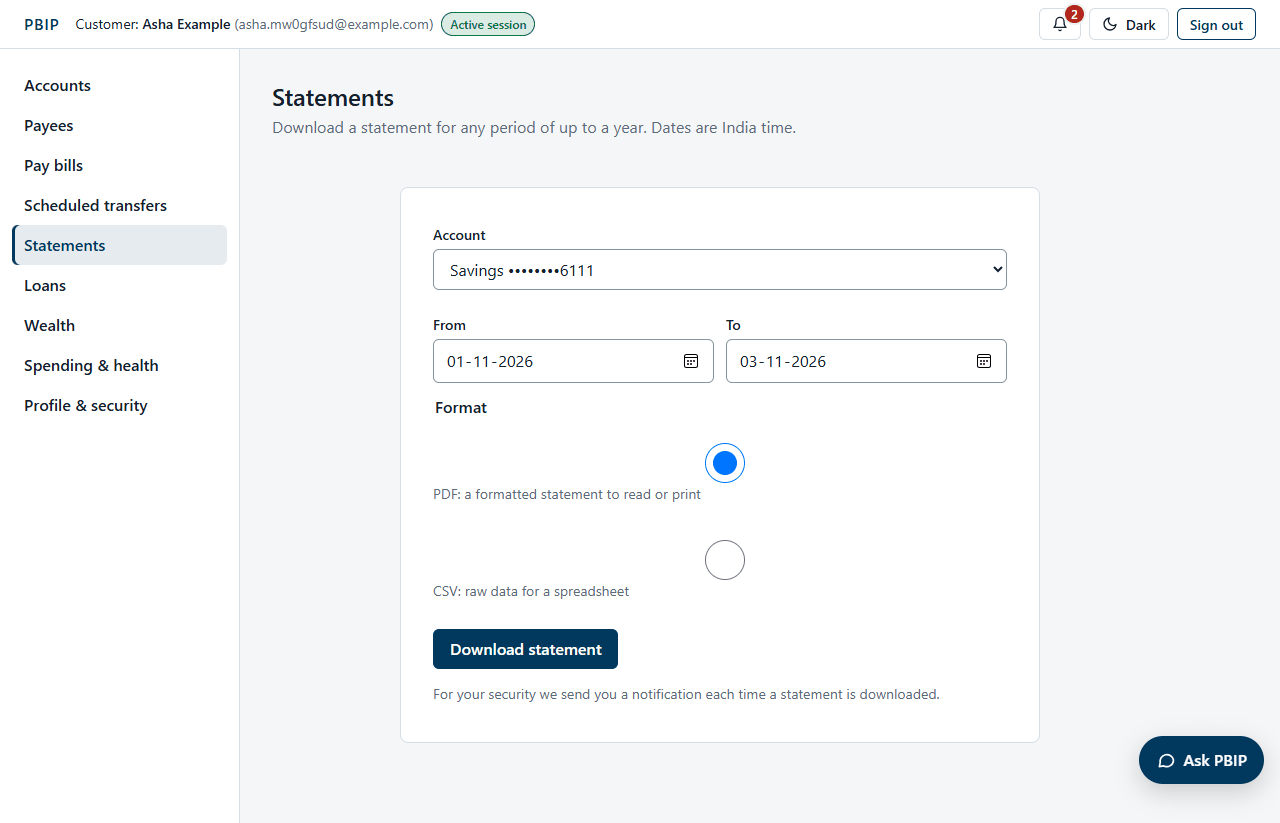
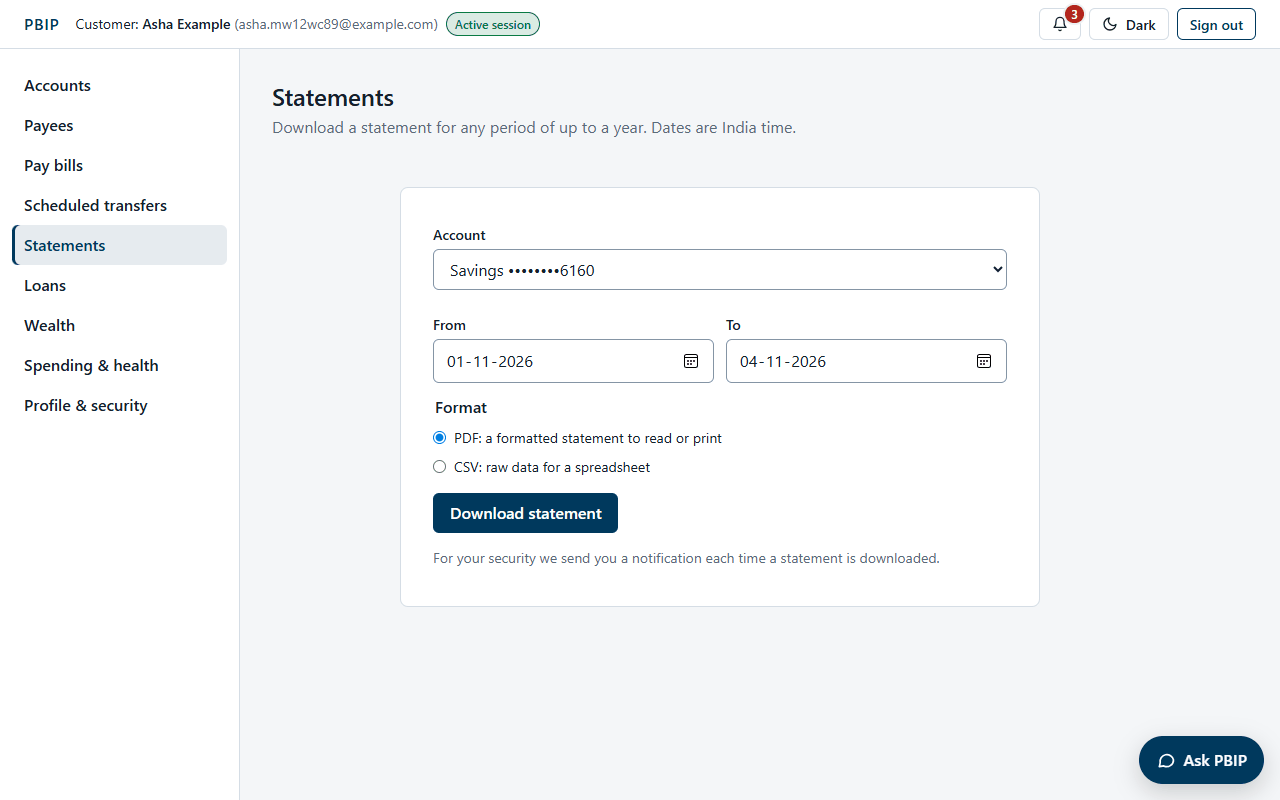
docs(manual): refresh screenshots and text for the screens changed since #374
Re-shot ten screenshots with the PR #374 capture method (Playwright, Edge,
1280 px, light theme, 256-colour PNG) on the current main: radio choices and
the compliance table title (#386), the fraud demo lab's Carol default and
session reuse (#388), recurring-only income (#404: loans, health score,
recommendations, RM details) and the RM list ordered by product match (#391).
The text now explains regular income, the empty recommendation state, the
lab's defaults, the RM list order and the third demo customer.

diff --git a/docs/user-manual/customer-guide.md b/docs/user-manual/customer-guide.md
@@ -78,8 +78,10 @@ from your app (or one of your recovery codes) and choose **Verify**.
 further failure doubles the wait, up to one hour. Wait, then try again. A staff administrator can also
 clear a lockout.
 
-> Demo logins for a local copy of PBIP (`alice@demo.pbip`, `bob@demo.pbip`) and where their password comes
-> from are listed in the [README](../../README.md). The password is never printed in this manual.
+> Demo logins for a local copy of PBIP (`alice@demo.pbip`, `bob@demo.pbip`, `carol@demo.pbip`) and where
+> their password comes from are listed in the [README](../../README.md). The password is never printed in
+> this manual. Alice has an authenticator, so she is asked for a code after her password
+> (`scripts/totp.py` prints it); Bob and Carol are not.
 
 ## 2. Turn on two-step sign-in (MFA)
 
@@ -361,6 +363,11 @@ Each part has a label such as Optimal, Adequate, Moderate, Low, Volatile, Burden
 **Actionable Financial Insights** lists what to improve. A new customer sees "Not enough data yet" for
 parts that need at least one or two closed months, as in the screenshot.
 
+**Income** means regular credits only: money from the same payer, for the same purpose, in at least 2 of
+the last 3 months (a salary, for example). A one-off credit such as an opening deposit does not count. Until
+a regular credit has arrived twice, Savings and Debt show "no income observed" and score 0, as in the
+screenshot, and the insights say "No regular income recorded yet".
+
 **Balance Forecast** (marked **Predicted, not exact**) draws your balance for the last 30 days and a
 prediction for the next 30, with shaded 80% and 95% ranges and markers for scheduled payments and loan
 EMIs. It shows the projected month-end balance and the payments still due this month. If your balance may
@@ -387,8 +394,10 @@ repayments. Open **Loans**.
    interest** and **Total payable**.
 3. The **Eligibility pre-check** shows **Eligible** or **Not eligible**, the maximum you could borrow over
    that tenure, your interest rate and the reasons. All your repayments including the new EMI must stay
-   within 50% of your income, worked out from your own account history. A sign-in lockout in the last 90
-   days pauses loan checks.
+   within 50% of your income, worked out from your own account history. Only regular income counts (see
+   [section 10](#10-spending-financial-health-and-balance-forecast)); without it the pre-check says
+   **Not eligible**, "We could not find regular income in your account history.", as in the screenshot of a
+   new customer. A sign-in lockout in the last 90 days pauses loan checks.
 
 **Borrow:**
 
@@ -467,6 +476,11 @@ your balance or spending pattern. The button takes you to the right place:
 | Credit line | **See our loans** | **Loans** |
 | Fixed deposit | **Book a fixed deposit** | **Wealth**, with the booking box open |
 | Anything else (for example insurance) | none | "You cannot apply for this in PBIP yet." |
+
+Most products need a regular income (see
+[section 10](#10-spending-financial-health-and-balance-forecast)) or a few months of history, so a new
+customer whose only credit is the opening deposit sees "No product recommendations for you right now.", as
+in the screenshot.
 
 Recommendations use your age band only if you gave consent (see [Profile and security](#17-profile-and-security)).
 

diff --git a/docs/user-manual/staff-guide.md b/docs/user-manual/staff-guide.md
@@ -189,8 +189,11 @@ off.
 The lab really moves money as a demo customer (through the normal customer API), so the alerts it creates
 appear in the queue like any other.
 
-1. Open **Fraud demo lab**. Enter the demo **Customer email** and **Customer password** (the seeded demo
-   password, see the [README](../../README.md)). Customers with an authenticator are refused.
+1. Open **Fraud demo lab**. **Customer email** starts as `carol@demo.pbip` and **Sender email (F6)** as
+   `bob@demo.pbip`, the seeded customers without an authenticator. Enter the **Customer password** (the
+   seeded demo password, see the [README](../../README.md)). Customers with an authenticator, such as
+   Alice, are refused. Each customer signs in once; later runs reuse that session while the page stays
+   open, so a series of scenarios does not use up the sign-in rate limit.
 2. Choose **Run scenario** on a card:
 
    | Scenario | What it does | Rules it should trigger |
@@ -217,9 +220,14 @@ everyone.
 
 ![Customer insights](images/60-rm-insights.png)
 
-1. Filter by **Segment**, **Churn risk** (any, medium or high, high only) and **Loan propensity**.
-2. The list is sorted by churn risk, highest first, 20 per page. Each row shows the segment, balance,
-   churn risk (Low, Medium, High and a 0-100 score), last activity and loan propensity.
+1. Choose the **Order**: **Best product match first** (the default for a relationship manager) or
+   **Highest churn risk first** (the default for an administrator). Filter by **Segment**, **Churn risk**
+   (any, medium or high, high only) and **Loan propensity**. The order and filters apply to all your
+   customers before paging, 20 per page.
+2. Each row shows the segment, balance, **Product match (rule-based)** (the best product's 0-100 score, its
+   name and first reason, or "No eligible product"), churn risk (Low, Medium, High and a 0-100 score), last
+   activity and loan propensity. The product match is a rule-based score, not a trained model or a
+   probability.
 3. Choose **Open** for the customer's details.
 
 ![Customer details](images/61-rm-customer-flyout.png)

diff --git a/docs/user-manual/README.md b/docs/user-manual/README.md
@@ -22,9 +22,11 @@ Then [start the services](../SETUP_GUIDE.md#5-starting-services--local-developme
 apply migrations, seed the demo data, and start the API, worker and web app. Open
 <http://localhost:5173> (development) or <https://localhost:8443> (full Docker stack).
 
-**Demo users.** The seed creates two customers (`alice@demo.pbip`, `bob@demo.pbip`) and four staff users
-(`analyst@demo.pbip`, `compliance@demo.pbip`, `admin@demo.pbip`, `rm@demo.pbip`). Where their password
-comes from, and how to print a staff authenticator code (`scripts/totp.py`), is explained in the
+**Demo users.** The seed creates three customers (`alice@demo.pbip`, `bob@demo.pbip`, `carol@demo.pbip`)
+and four staff users (`analyst@demo.pbip`, `compliance@demo.pbip`, `admin@demo.pbip`, `rm@demo.pbip`).
+Alice has an authenticator (for the step-up demo); Carol is the fraud demo lab's customer and has none.
+Where their password comes from, and how to print a staff or Alice's authenticator code
+(`scripts/totp.py`), is explained in the
 [README](../../README.md#1-run-it). This manual never prints a password. You can also register your
 own customer from the sign-in page.
 
@@ -71,7 +73,8 @@ customers at `example.com`. Keep in mind:
 - **Test data only.** Names such as "Asha Example" and "Vikram Example" are throwaway test customers.
   Authenticator keys and recovery codes are blurred even though they belong to throwaway users.
 - **New customers have little history,** so the balance forecast and month-on-month trends show their "not
-  enough history yet" states.
+  enough history yet" states. Their only credit is the opening deposit, which is not regular income, so
+  they have no income-based loan offer or product recommendation yet.
 - **The assistant** answered with its built-in, rule-based helper because no local language model was
   running. With a model running, the facts are the same and the wording is more natural.
 - **The fraud model** was trained locally (`fraud-model` in the setup guide) so the alert screens show
